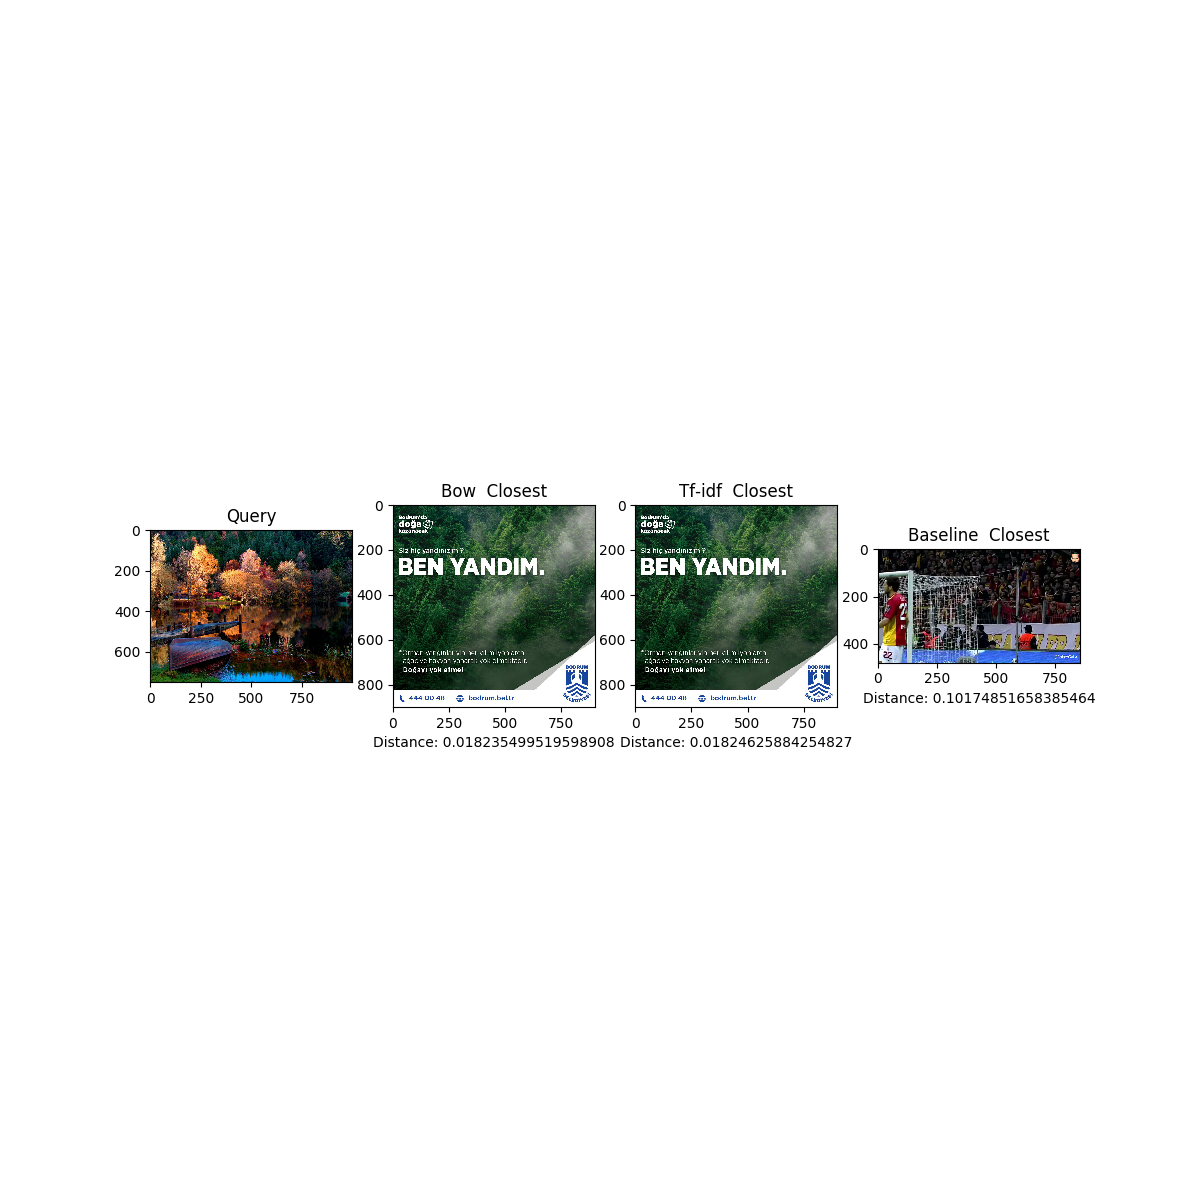
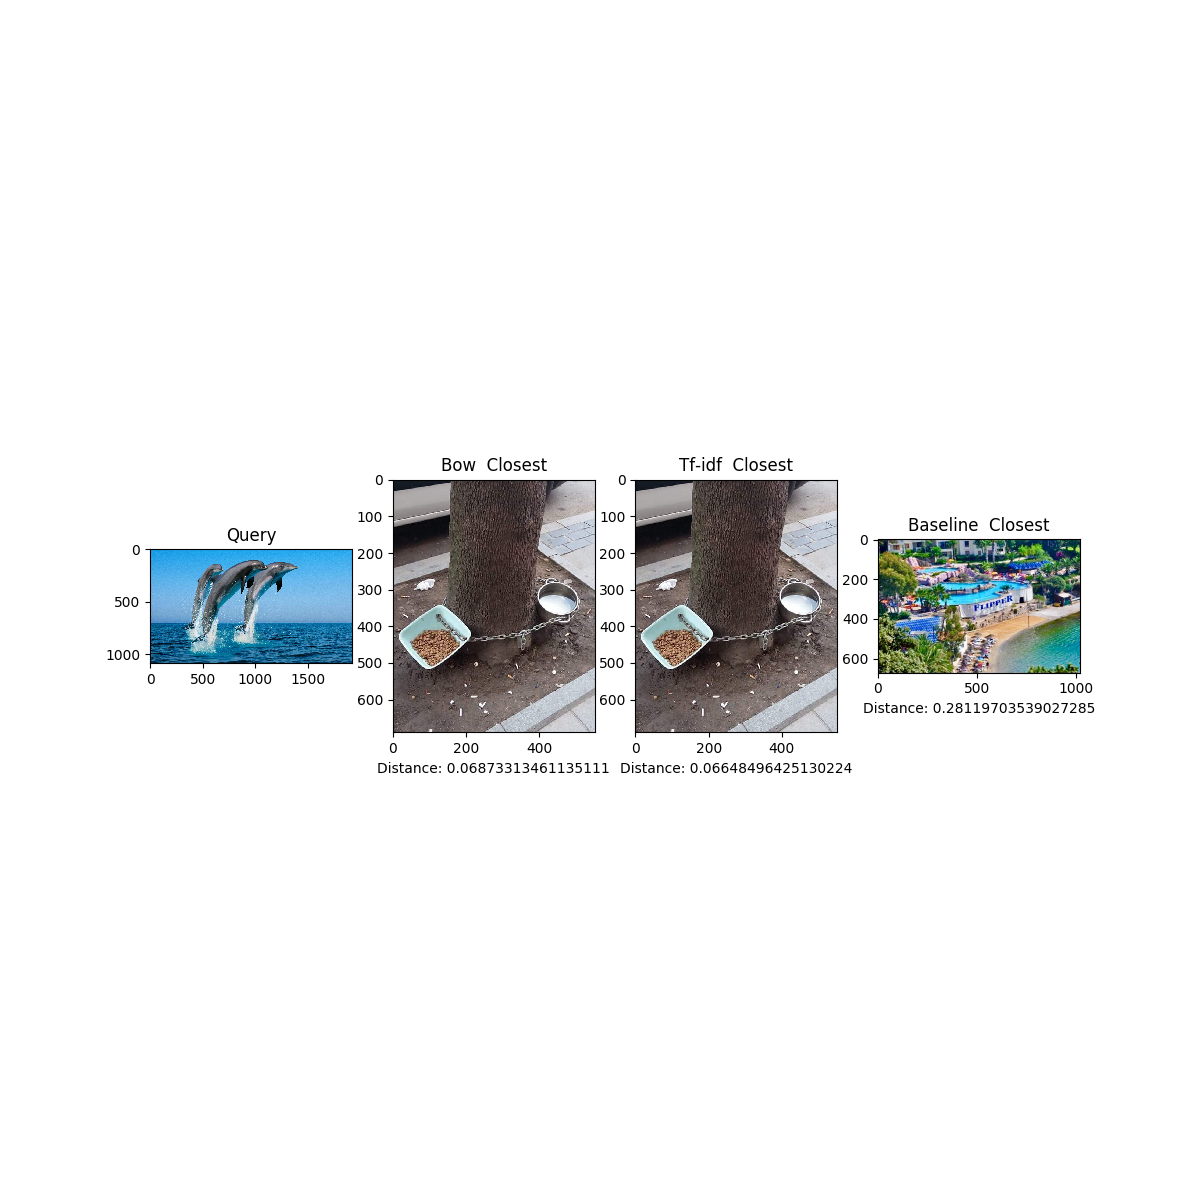
Fazlalıklar çıkarıldı .

Changed region(s): [[0.0925, 0.37, 0.925, 0.6475]]

diff --git a/query2.py b/query2.py
@@ -1,18 +1,3 @@
-"""
-queryEval.py
-
-deneme
-
-DO NOT MODIFY ANY CODES IN THIS FILE
-OTHERWISE YOUR RESULTS MAY BE INCORRECTLY EVALUATED!
-I DON'T CARE YOUR CODE SO BUGGY
-
-
-@author: John See, 2017
-@modified by: Lai Kuan, Wong, 2018
-@fixed by: Kun Shun, Goh, 2018
-
-"""
 import os
 import cv2
 import numpy as np
@@ -32,20 +17,10 @@ dbpath = '/home/gkhnkrhmt/Desktop/images'
 # dbpath= 'C:\\Users\\Koh\\Desktop\\1151101808_Assignment-2\\plantdb\\train'
 queryfile = "/home/gkhnkrhmt/Desktop/Resim/12.jpg"
 
-# create a arrays for precision and recall
-precision_bow = []
-precision_tfidf = []
-precision_base = []
-recall_bow = []
-recall_tfidf = []
-recall_base = []
-
 # read query image file
 img = cv2.imread(queryfile)
 query_img = cv2.cvtColor(img, cv2.COLOR_BGR2RGB)
 plt.imshow(query_img) , plt.title("Query İmage")
-
-
 
 #====================================================================
 # Bag-of-word Features
@@ -76,12 +51,6 @@ fv = np.insert(fv, 0, newfeat, axis=0)
 # find all pairwise distances
 D = computeDistances(fv)
 
-
-# *** Evaluation ----------------------------------------------------------
-
-# number of images to retrieve
-nRetrieved = 50
-
 # access distances of all images from query image (first image), sort them asc
 nearest_idx = np.argsort(D[0, :]);
 closest_distance1 = D[0][nearest_idx[1]]
@@ -97,22 +66,9 @@ plt.xlabel('Distance: '+str(closest_distance1))
 imgplot = plt.imshow(img2)
 a.set_title('Bow  Closest')
 
-#cv2.imshow("Query İmage ", img1)
-#cv2.imshow("Bow Closest Image and Distance : "+str(closest_distance1), img2)
-# quick way of finding category label for top K retrieved images
-retrievedCats = np.uint8(np.floor(((nearest_idx[1:nRetrieved+1])-1)/50));
-
-#for curve  500
-retrievedCurve = np.uint8(np.floor(((nearest_idx[1:500+1])-1)/50));
-
-
-
 #====================================================================
 # TD-IDF Features
 #====================================================================
-
-featvect = []  # empty list for holding features
-FEtime = np.zeros(500)
 
 # load pickled features
 fv = pickle.load(open("tfidf.pkl", "rb") )
@@ -135,7 +91,6 @@ bow_hist, _ = np.histogram(code, k, normed=True)
 # Update newfeat to BoW
 newfeat = bow_hist
 
-
 # insert new feat to the top of the feature vector stack
 fv = np.insert(fv, 0, newfeat, axis=0)
 
@@ -150,19 +105,10 @@ a = fig.add_subplot(1, 4, 3)
 plt.xlabel('Distance: '+str(closest_distance2))
 imgplot_2 = plt.imshow(img3)
 a.set_title('Tf-idf  Closest')
-#cv2.imshow("Tf-idf Closest Image and Distance : "+str(closest_distance2), img2)
-# quick way of finding category label for top K retrieved images
-retrievedCats = np.uint8(np.floor(((nearest_idx[1:nRetrieved+1])-1)/50));
-
-#for curve  500
-retrievedCurve = np.uint8(np.floor(((nearest_idx[1:500+1])-1)/50));
 
 #====================================================================
 # Baseline Features
 #====================================================================
-
-featvect = []  # empty list for holding features
-FEtime = np.zeros(500)
 
 # load pickled features
 fv = pickle.load(open("base.pkl", "rb") )
@@ -171,7 +117,6 @@ print('Baseline features loaded')
 # read query image file
 img = cv2.imread(queryfile)
 query_img = cv2.cvtColor(img, cv2.COLOR_BGR2RGB)
-
 
 # Compute features
 newfeat = computeFeatures_baseline(query_img)
@@ -182,10 +127,6 @@ fv = np.insert(fv, 0, newfeat, axis=0)
 # find all pairwise distances
 D = computeDistances(fv)
 
-
-
-nRetrieved = 50
-
 # access distances of all images from query image (first image), sort them asc
 nearest_idx = np.argsort(D[0, :]);
 closest_distance3 = D[0][nearest_idx[1]]
@@ -195,16 +136,8 @@ a = fig.add_subplot(1, 4, 4)
 imgplot_3 = plt.imshow(img4)
 a.set_title('Baseline  Closest')
 plt.xlabel('Distance: '+str(closest_distance3))
-plt.savefig("results/mm_model1.png")
+fig.set_size_inches((12, 12), forward=False)
+plt.savefig("results/mm_model1.png",format="png")
 plt.show()
-#cv2.imshow("Baseline Features Closest Image and Distance : "+str(closest_distance3), img3)
-#cv2.waitKey(0)
-#cv2.destroyAllWindows()
-
-# quick way of finding category label for top K retrieved images
-retrievedCats = np.uint8(np.floor(((nearest_idx[1:nRetrieved+1])-1)/50));
-
-#for curve  500
-retrievedCurve = np.uint8(np.floor(((nearest_idx[1:500+1])-1)/50));
 
 
